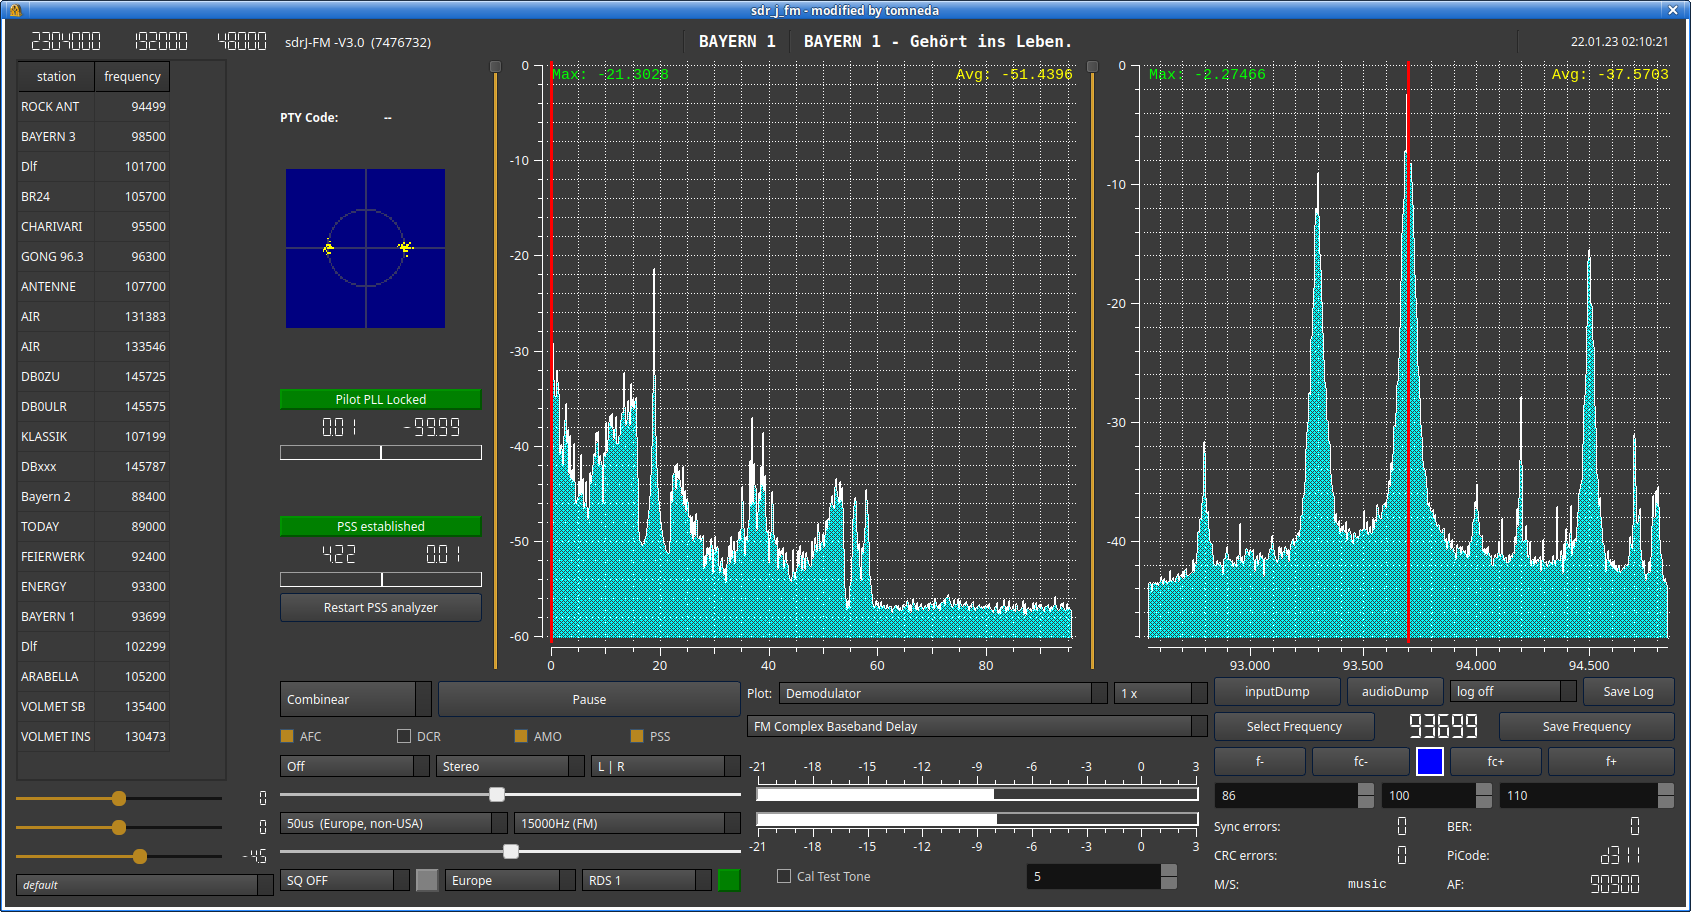
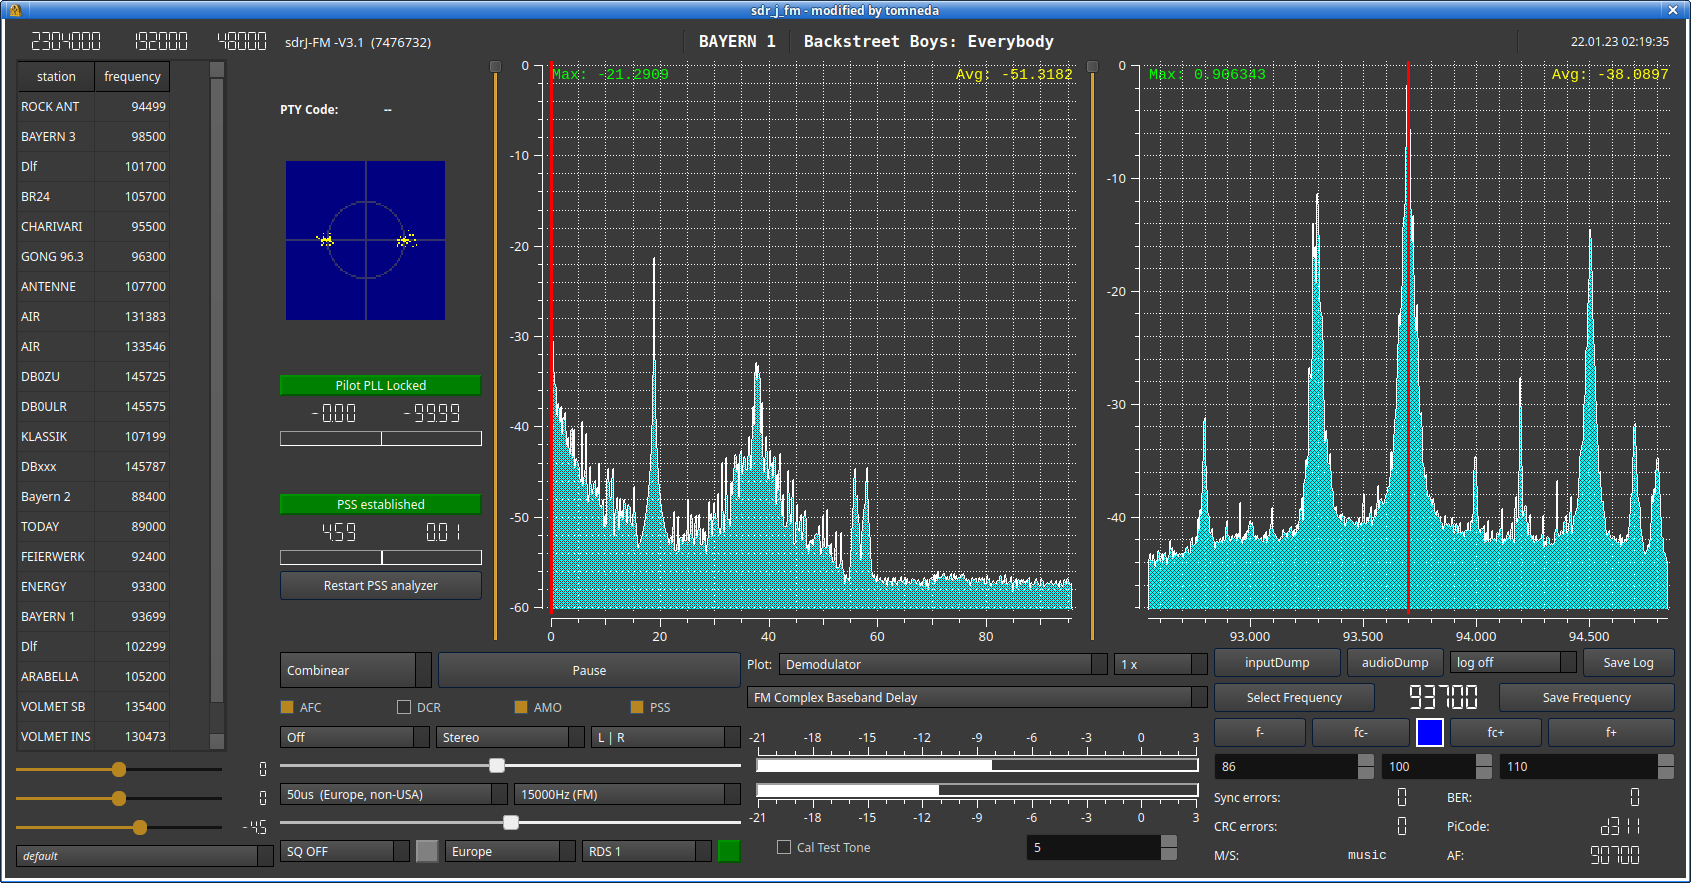
Change version number to V3.1

diff --git a/includes/fm-constants.h b/includes/fm-constants.h
@@ -84,7 +84,7 @@ using namespace std;
 #define I_Only		0102
 #define	Q_Only		0104
 
-#define	CURRENT_VERSION	"3.0"
+#define	CURRENT_VERSION	"3.1"
 
 #define	MSECFORTIMER	10
 //
